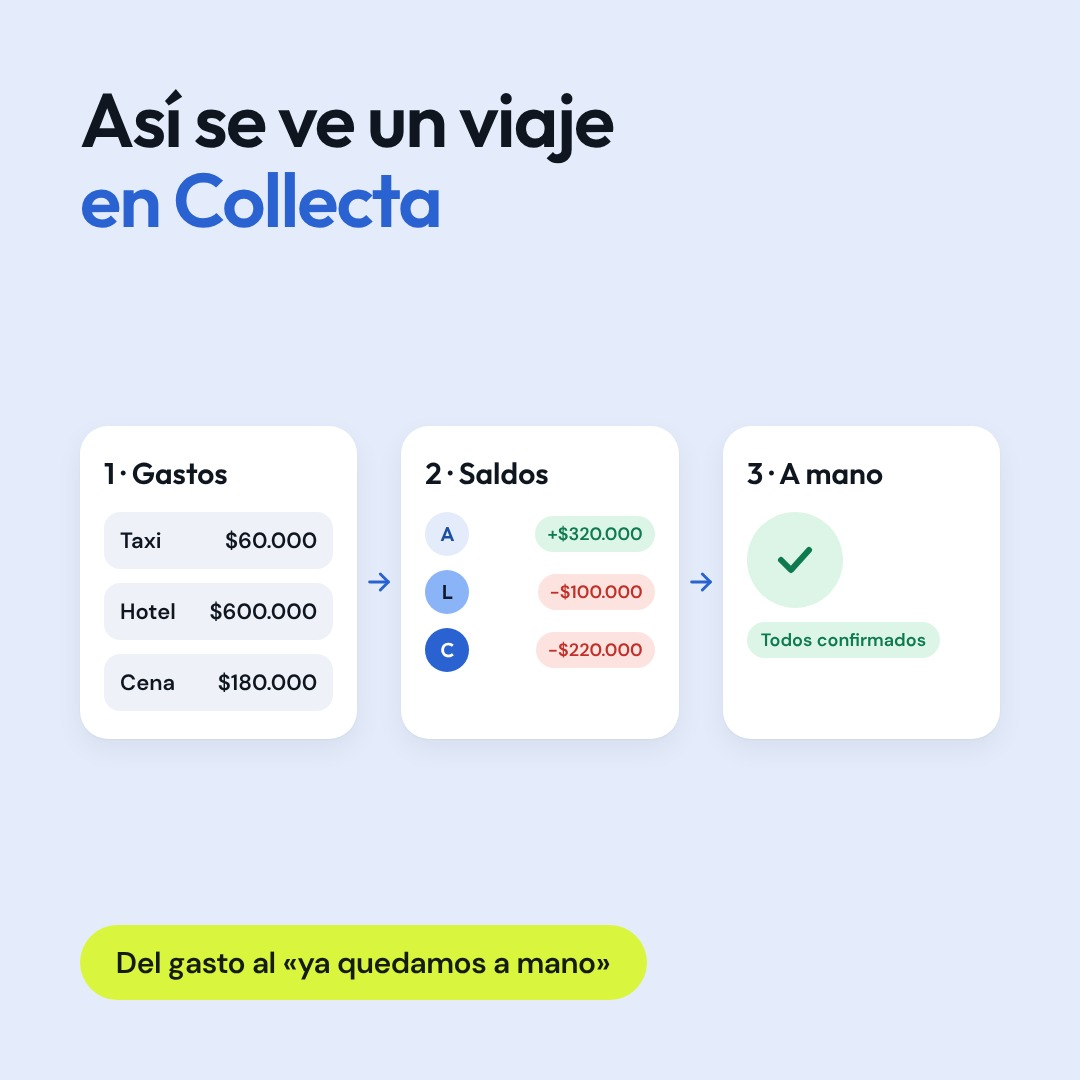
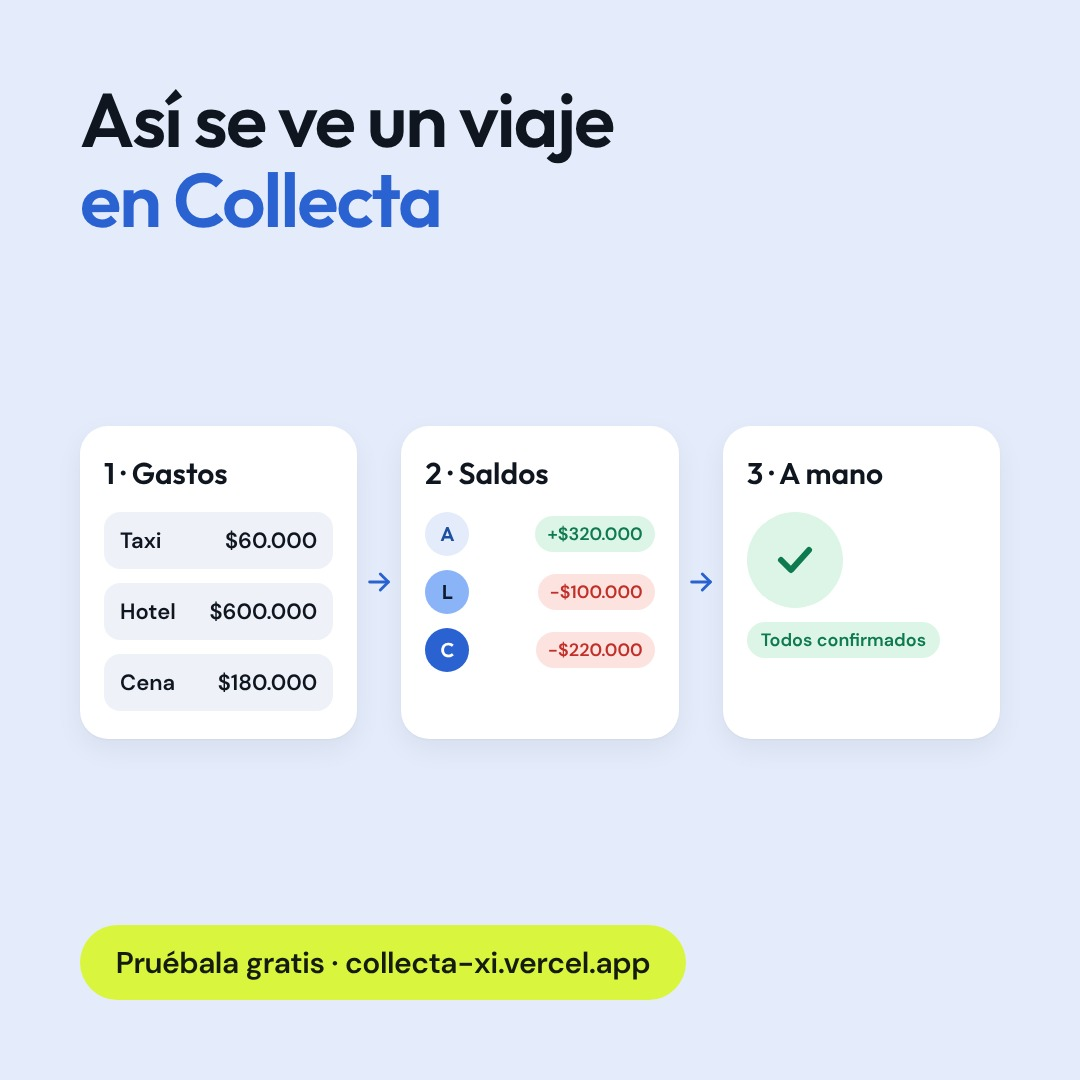
Láminas premium rediseñadas, enlace de la app al inicio y llamado a probarla en los cierres
Claude-Session: https://claude.ai/code/session_01HbH3V5Jue1qgoVzDuP3Li2

Changed region(s): [[0.0917, 0.8556, 0.6417, 0.9472]]

diff --git a/CLAUDE.md b/CLAUDE.md
@@ -19,7 +19,7 @@ La usuaria (Daniela) no es técnica: explícale todo en español, claro y paso a
 3. **Nunca imprimas ni guardes tokens** en archivos, commits, logs ni en el chat. Si ella te pega uno, úsalo solo para `gh secret set` y no lo repitas.
 4. Antes de cualquier publicación real corre una validación: `DRY_RUN=1` (o el workflow con `dry_run=1`). Verifica que cada imagen sea pública y JPEG.
 5. No re-publiques lo que ya está en `state/published.json`.
-6. Tono de las descripciones: cercano, claro, en español de Colombia, sin exagerar. No prometas funciones que no existen: hoy Collecta **no guarda ni mueve dinero** (cada quien paga por su banco y quien recibe confirma) y el **escáner de recibos aún no está activo** (siempre «muy pronto», nunca «con IA»).
+6. Tono de las descripciones: cercano, claro, en español de Colombia, sin exagerar. No prometas funciones que no existen: hoy Collecta **no guarda ni mueve dinero** (cada quien paga por su banco y quien recibe confirma). El escáner con IA ya funciona pero es **premium**. El primer y el último post de cada serie llevan el enlace de la app: https://collecta-xi.vercel.app
 7. **Gratis vs premium** (según el pitch deck): la versión beta gratuita incluye grupos, 4 formas de dividir (iguales, montos exactos, por ítem con propina, por noches), registro y confirmación de pagos y captura manual con foto del comprobante. Son **premium**: metas de ahorro, gastos automáticos, préstamos en cuotas y escáner con IA. Distinción discreta; no pongas precios en las publicaciones. Para lo premium el llamado es «escríbenos para activarla».
 8. Hashtags: pocos (4–8), relevantes. Se agregan al final de la descripción al publicar.
 
